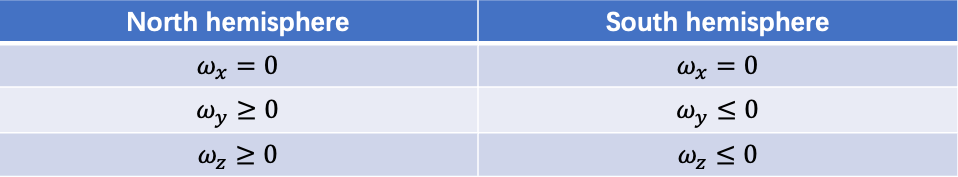
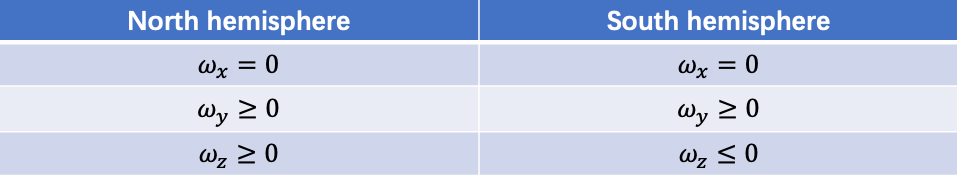
coriolis force refresh

diff --git a/_posts/2023-09-13-coriolis-force.md b/_posts/2023-09-13-coriolis-force.md
@@ -64,7 +64,7 @@ First, we switch to a surface coordinate on our planet. The `y` axis goes along 
     </div>
 </div>
 
-We let the angular velocity in the given coordinate be like $$\overrightarrow{\omega}=\omega_y\overrightarrow{j}+\omega_z\overrightarrow{k}$$. Since the angular velocity is perpendicular to the equator plane, $$\overrightarrow{\omega_x}$$ must equal to 0. And if we were at the North hemisphere, the angular y component must be no smaller than 0 while in the South hemisphere, y component remain smaller than or equal 0. So is its z component. Check out the table for details.
+We let the angular velocity in the given coordinate be like $$\overrightarrow{\omega}=\omega_y\overrightarrow{j}+\omega_z\overrightarrow{k}$$. Since the angular velocity is perpendicular to the equator plane, $$\overrightarrow{\omega_x}$$ must equal to 0. And if we were at the North hemisphere, the angular z component must be no smaller than 0 while in the South hemisphere, z component remain smaller than or equal 0. Check out the table for details.
 
 <div class="row mt-3">
     <div class="col-sm mt-3 mt-md-0">
